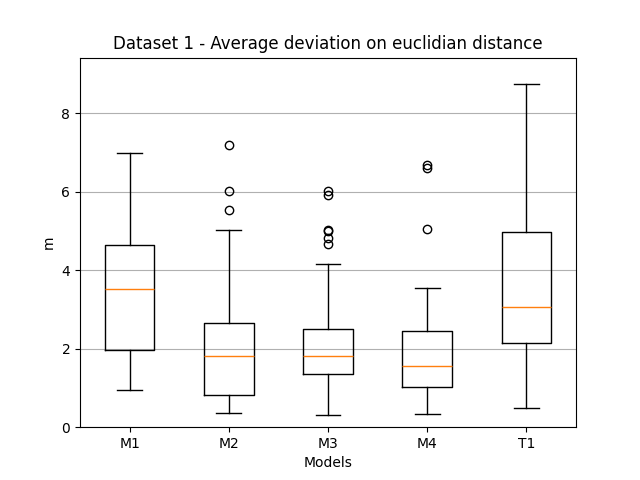
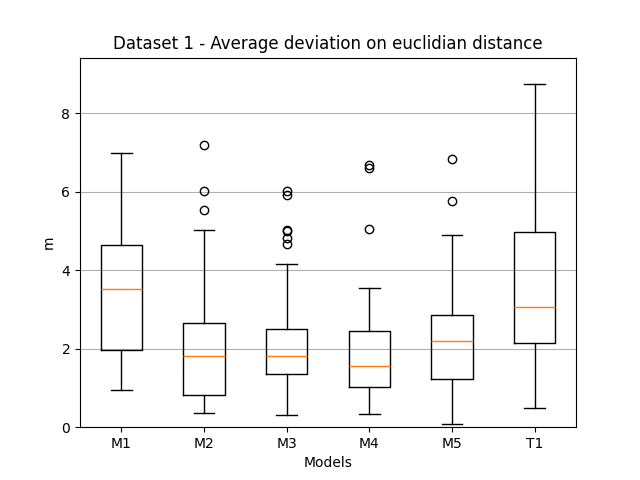
Mediciones incluyendo M5

diff --git a/01-posicionamiento/paper1/04_predictions.py b/01-posicionamiento/paper1/04_predictions.py
@@ -27,7 +27,7 @@ models = [
     'M2',
     'M3',
     'M4', 
-    # 'M5', 
+    'M5', 
     # 'M6', 
     # 'M7',
     # 'M8'

diff --git a/01-posicionamiento/paper1/05_charts.py b/01-posicionamiento/paper1/05_charts.py
@@ -13,7 +13,7 @@ models = [
     'M2',
     'M3',
     'M4',
-    # 'M5',
+    'M5',
     # 'M6',
     # 'M7',
     # 'M8',
